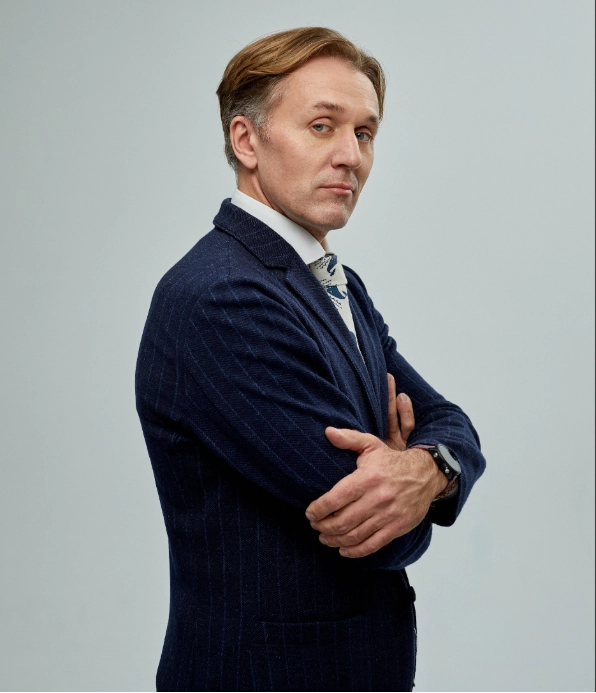
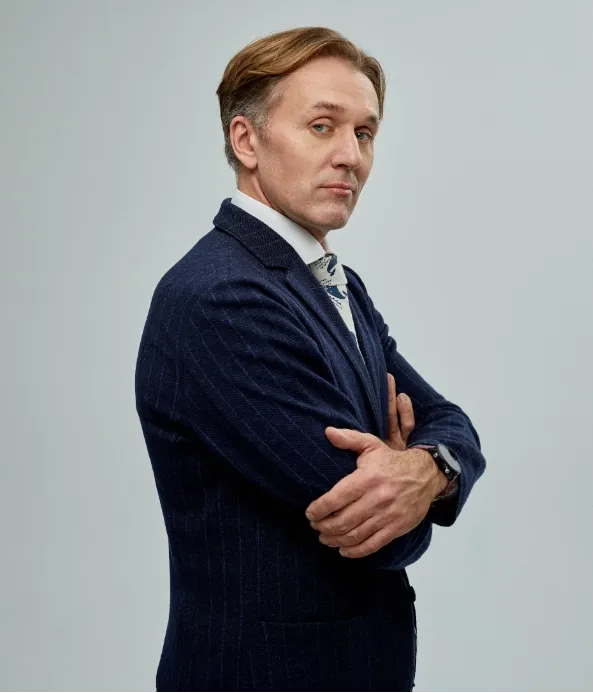
feat(landing): унифицировать портрет мужчины на man-suit-portrait-large
Везде, где использовался man-suit-portrait.webp, заменён на
man-suit-portrait-large.webp + imagePosition=top — лицо в кадре,
а не обрезается по центру.
Сама картинка обрезана на 3px справа (596 -> 593) — убрать тонкую
тёмную полосу по правому краю.

diff --git a/src/widgets/publications-section/ui/publications-section.tsx b/src/widgets/publications-section/ui/publications-section.tsx
@@ -28,11 +28,12 @@ export function PublicationsSection() {
           />
           <ContentCard
             span={4}
-            image="/images/man-suit-portrait.webp"
+            image="/images/man-suit-portrait-large.webp"
             imageAlt="Мужчина в синем костюме"
             title="Четверть века спустя: как изменилась event-индустрия с начала нулевых?"
             date="12 апреля"
             subtitle="Новость"
+            imagePosition="top"
           />
           <ContentCard
             span={4}
@@ -58,6 +59,7 @@ export function PublicationsSection() {
             title="Четверть века спустя: как изменилась event-индустрия с начала нулевых?"
             date="12 апреля"
             subtitle="Интервью"
+            imagePosition="top"
           />
         </Grid>
       </Container>

diff --git a/src/widgets/concerts-section/ui/concerts-section.tsx b/src/widgets/concerts-section/ui/concerts-section.tsx
@@ -27,11 +27,12 @@ export function ConcertsSection() {
           />
           <ContentCard
             span={4}
-            image="/images/man-suit-portrait.webp"
+            image="/images/man-suit-portrait-large.webp"
             imageAlt="Мужчина в синем костюме"
             title="Четверть века спустя: как изменилась event-индустрия с начала нулевых?"
             date="12 апреля"
             subtitle="Новость"
+            imagePosition="top"
           />
           <ContentCard
             span={4}

diff --git a/src/widgets/events-section/ui/events-section.tsx b/src/widgets/events-section/ui/events-section.tsx
@@ -25,6 +25,7 @@ export function EventsSection() {
             date="12 апреля"
             tag={{ text: "Интересно", variant: "accent" }}
             subtitle="Москва"
+            imagePosition="top"
           />
           <ContentCard
             span={6}
